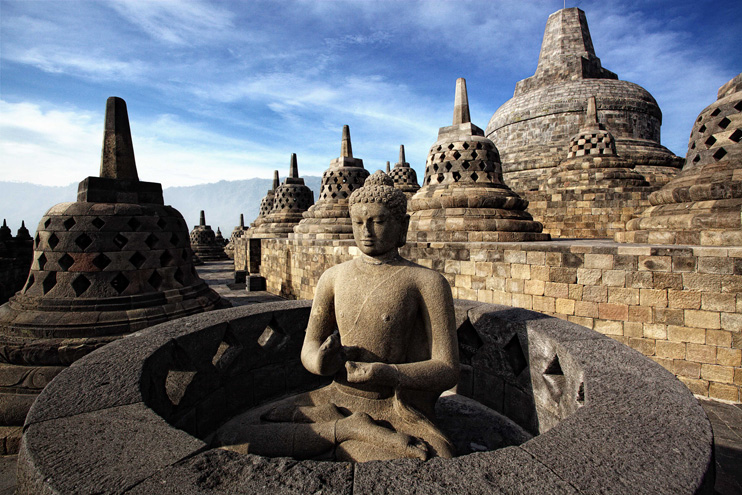
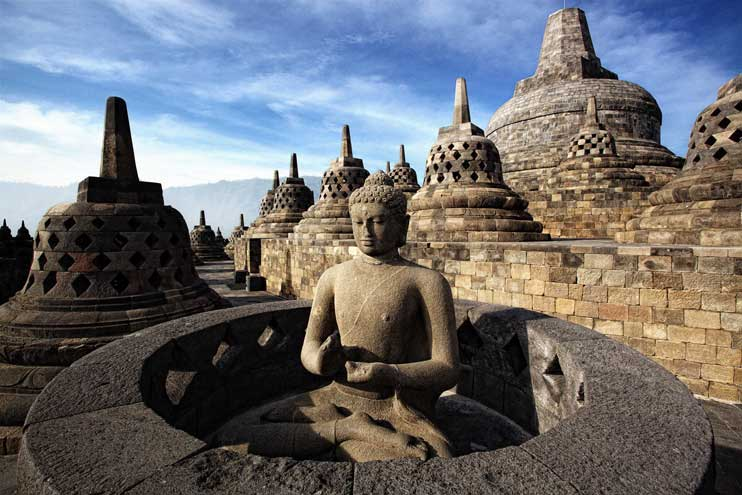
update image

diff --git a/resources/views/home/index.blade.php b/resources/views/home/index.blade.php
@@ -312,7 +312,7 @@
                                 </li>
                                 <li>
                                     <div class="image-caption cast-shadow mb-xs-32 ">
-                                        {!! html_img( 'img/am2018/public/indonesia-updates-3.JPG', 
+                                        {!! html_img( 'img/am2018/public/indonesia-updates-3_thumbnail.JPG',
                                             [ 
                                                 'w'     => 408,
                                                 'h'     => 300,
@@ -331,7 +331,7 @@
                                 </li>
                                 <li>
                                     <div class="image-caption cast-shadow mb-xs-32 ">
-                                        {!! html_img( 'img/am2018/public/indonesia-updates-4.JPG', 
+                                        {!! html_img( 'img/am2018/public/indonesia-updates-4_thumbnail.JPG',
                                             [ 
                                                 'w'     => 408,
                                                 'h'     => 300,
@@ -350,7 +350,7 @@
                                 </li>
                                 <li>
                                     <div class="image-caption cast-shadow mb-xs-32 ">
-                                        {!! html_img( 'img/am2018/public/indonesia-updates-5.JPG', 
+                                        {!! html_img( 'img/am2018/public/indonesia-updates-5_thumbnail.JPG',
                                             [ 
                                                 'w'     => 408,
                                                 'h'     => 300,
@@ -369,7 +369,7 @@
                                 </li>
                                 <li>
                                     <div class="image-caption cast-shadow mb-xs-32 ">
-                                        {!! html_img( 'img/am2018/public/indonesia-updates-6.JPG', 
+                                        {!! html_img( 'img/am2018/public/indonesia-updates-6_thumbnail.JPG',
                                             [ 
                                                 'w'     => 408,
                                                 'h'     => 300,
